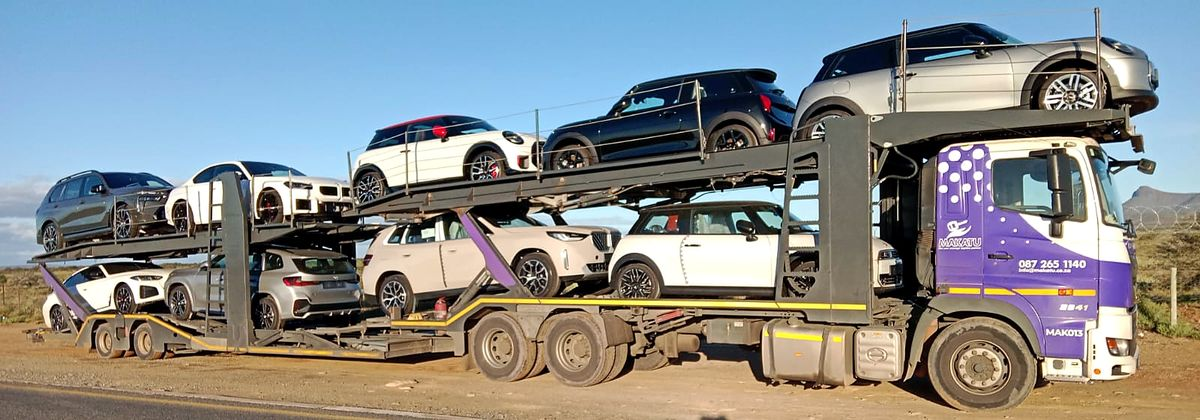
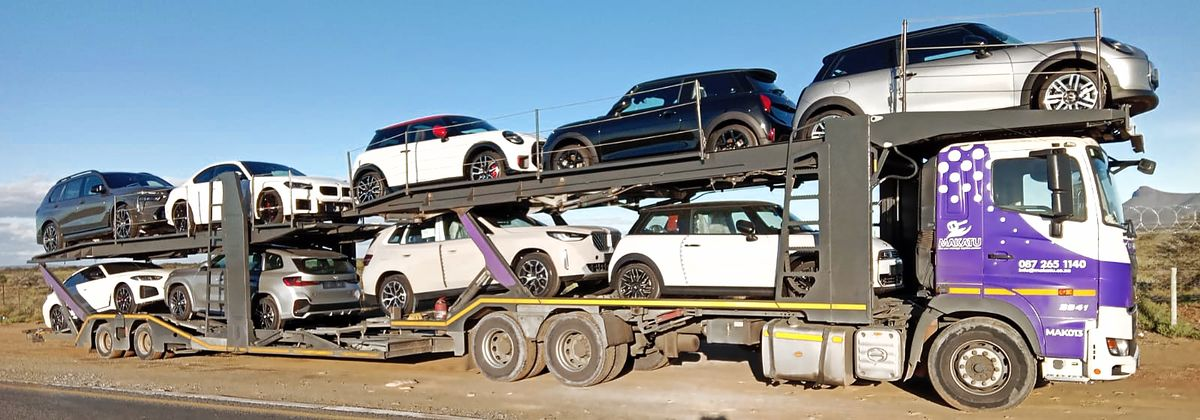
Business card: retouched MAK013 header and OG image (cleaner whites, vivid purple), cache-bust (#18)

diff --git a/public/Presentation/Makatu.html b/public/Presentation/Makatu.html
@@ -9,19 +9,19 @@
 <meta property="og:title" content="Makatu Business Enterprises – Digital Business Card">
 <meta property="og:description" content="Not your average logistics partner. Call, WhatsApp, get a quote or save our contact.">
 <meta property="og:url" content="https://www.makatu.co.za/Presentation/Makatu.html">
-<meta property="og:image" content="https://www.makatu.co.za/Presentation/img/makatu-card-og.jpg">
+<meta property="og:image" content="https://www.makatu.co.za/Presentation/img/makatu-card-og.jpg?v=2">
 <meta property="og:image:width" content="1200"><meta property="og:image:height" content="630">
 <meta name="twitter:card" content="summary_large_image"><meta name="twitter:site" content="@Makatu2023">
 <link rel="preconnect" href="https://fonts.gstatic.com" crossorigin>
 <link href="https://fonts.googleapis.com/css2?family=League+Spartan:wght@400;600;700;800&display=swap" rel="stylesheet">
-<link rel="preload" as="image" href="/Presentation/img/makatu-card-hero.jpg">
+<link rel="preload" as="image" href="/Presentation/img/makatu-card-hero.jpg?v=2">
 <style>
 :root{--p:#311d60;--p2:#5b3b9e;--p3:#f3effa;--ink:#1d1430;--mut:#6b6280;--line:#e8e2f3}
 *{box-sizing:border-box;margin:0;padding:0}
 body{font-family:'League Spartan',system-ui,Arial,sans-serif;background:#f6f3fb;color:var(--ink);min-height:100vh;display:flex;justify-content:center;-webkit-font-smoothing:antialiased}
 .card{width:100%;max-width:440px;background:#fff;min-height:100vh;box-shadow:0 20px 60px rgba(49,29,96,.12)}
 @media(min-width:520px){body{padding:32px 16px;align-items:flex-start}.card{min-height:0;border-radius:28px;overflow:hidden}}
-.hero{position:relative;height:230px;background:var(--p) url('/Presentation/img/makatu-card-hero.jpg') 78% 40%/cover}
+.hero{position:relative;height:230px;background:var(--p) url('/Presentation/img/makatu-card-hero.jpg?v=2') 78% 40%/cover}
 .hero:after{content:"";position:absolute;inset:0;background:linear-gradient(180deg,rgba(49,29,96,.15) 0%,rgba(49,29,96,.55) 60%,var(--p) 100%)}
 .hero img{position:absolute;z-index:1;left:24px;bottom:22px;height:42px;width:auto}
 .top{background:var(--p);color:#fff;padding:4px 24px 26px}
